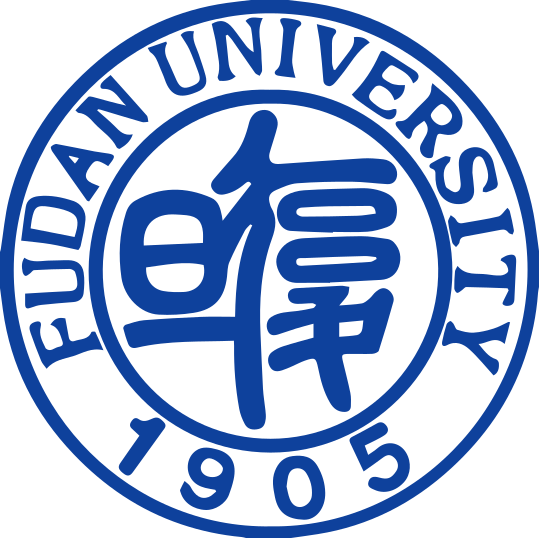
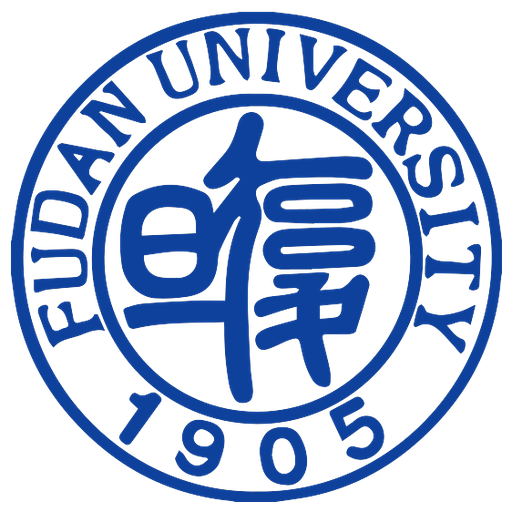
Equalize university emblem circle sizes

diff --git a/index.html b/index.html
@@ -112,6 +112,7 @@
       height: 96px;
       flex-shrink: 0;
       object-fit: contain;
+      object-position: center;
     }
     .edu p, .exp p { margin: 0.2rem 0; }
     .meta { font-size: 0.95rem; }
@@ -220,7 +221,7 @@
 
       <h1 id="education">📖 Education</h1>
       <div class="edu">
-        <img src="images/sjtu.png" alt="Shanghai Jiao Tong University emblem" />
+        <img src="images/sjtu.png?v=2" alt="Shanghai Jiao Tong University emblem" />
         <div>
           <p><strong>Shanghai Jiao Tong University (SJTU)</strong>, China</p>
           <p class="meta"><em>Incoming</em></p>
@@ -230,7 +231,7 @@
       </div>
       <hr class="soft" />
       <div class="edu">
-        <img src="images/dlut.png" alt="Dalian University of Technology emblem" />
+        <img src="images/dlut.png?v=2" alt="Dalian University of Technology emblem" />
         <div>
           <p><strong>Dalian University of Technology (DLUT)</strong>, China</p>
           <p class="meta"><em>2023.09 – 2027.07 (expected)</em></p>
@@ -285,7 +286,7 @@
 
       <h1 id="experience">🔬 Research &amp; Intern Experience</h1>
       <div class="exp">
-        <img src="images/fudan.png" alt="Fudan University emblem" />
+        <img src="images/fudan.png?v=2" alt="Fudan University emblem" />
         <div>
           <p><strong>Institute of Future Technology, Fudan University</strong></p>
           <p class="meta"><em>2026.07 – present, Research Intern, Shanghai, China</em></p>
@@ -294,7 +295,7 @@
       </div>
       <hr class="soft" />
       <div class="exp">
-        <img src="images/pku.png" alt="Peking University emblem" />
+        <img src="images/pku.png?v=2" alt="Peking University emblem" />
         <div>
           <p><strong>Institute for Artificial Intelligence, Peking University</strong></p>
           <p class="meta"><em>2025.03 – 2026.05, Research Assistant, Beijing, China</em></p>
